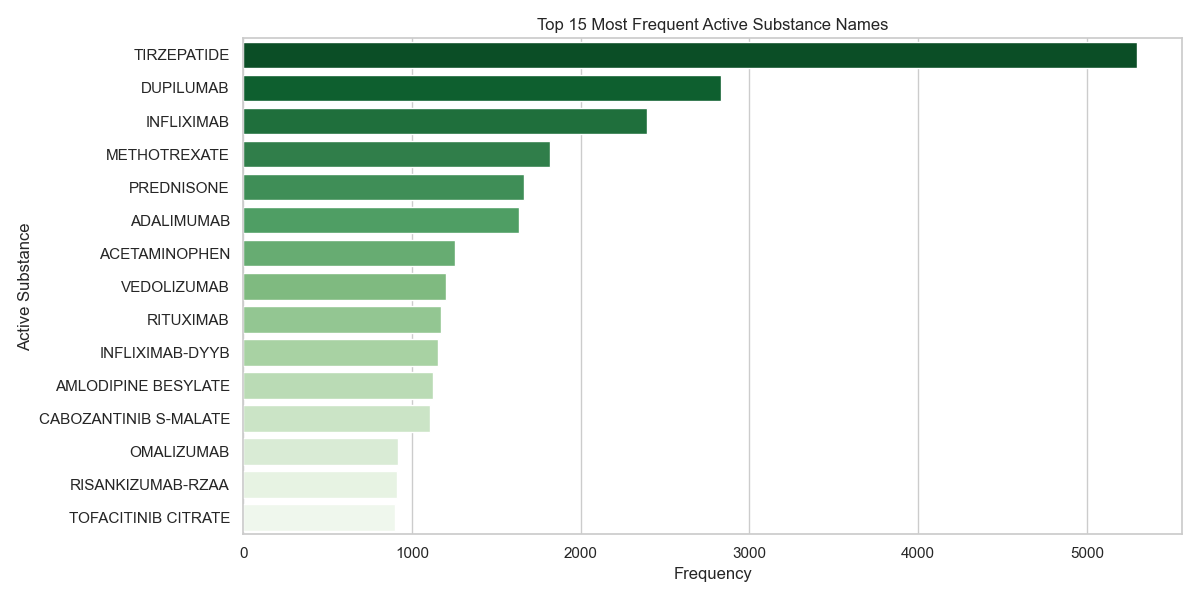
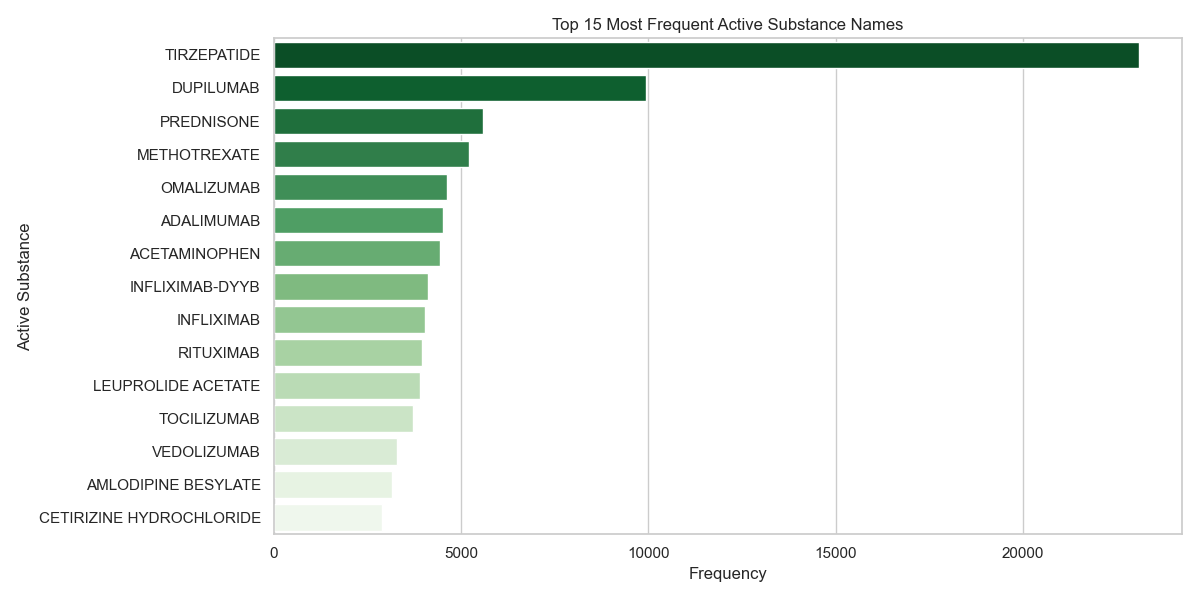
plots using all 108,000 records

diff --git a/dataIngestion.py b/dataIngestion.py
@@ -38,7 +38,7 @@ def consolidate_fda_data(folder_path):
     print("-" * 30)
     print(f"Total Consolidated Records: {total_records}")
     
-    # Requirement Check [cite: 307, 315]
+    # Assignment Requirement Check 
     if total_records >= 100000:
         print("Status: SUCCESS - Dataset meets the >100k requirement.")
     else:
